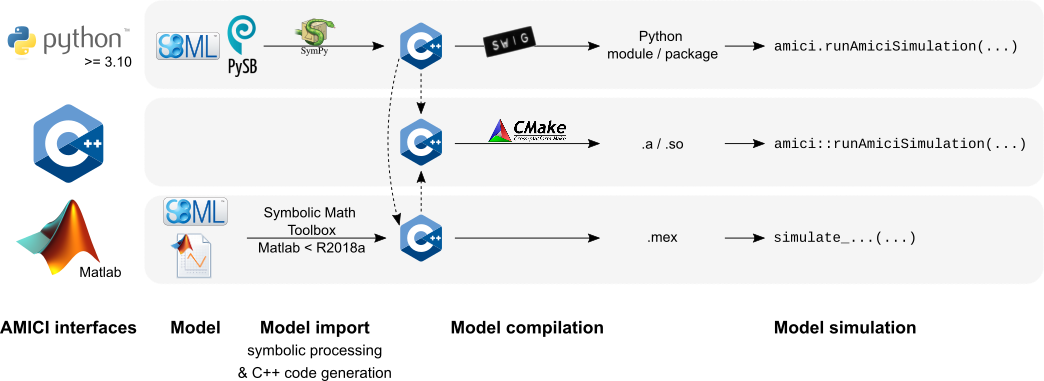
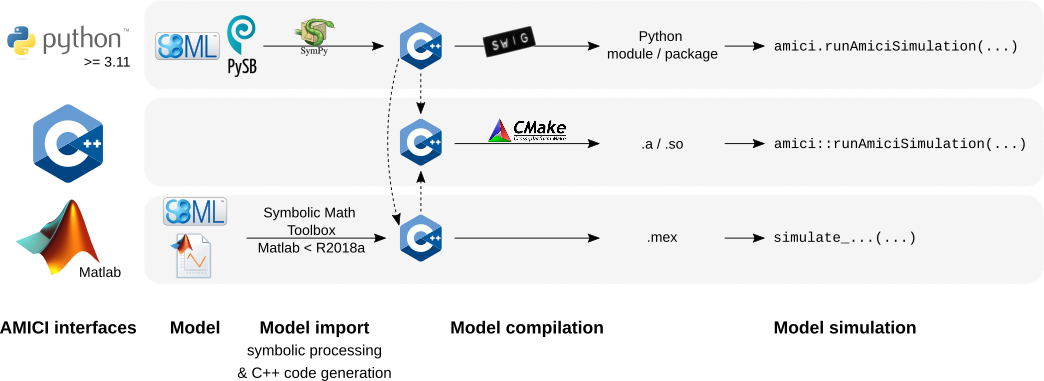
Require Python 3.11
https://numpy.org/neps/nep-0029-deprecation_policy.html#drop-schedule

diff --git a/python/sdist/amici/setup.template.py b/python/sdist/amici/setup.template.py
@@ -75,7 +75,7 @@ setup(
     ext_modules=[MODEL_EXT],
     packages=find_namespace_packages(),
     install_requires=["amici==TPL_AMICI_VERSION"],
-    python_requires=">=3.10",
+    python_requires=">=3.11",
     package_data={},
     zip_safe=False,
     classifiers=CLASSIFIERS,

diff --git a/doc/MATLAB_.md b/doc/MATLAB_.md
@@ -191,7 +191,7 @@ from within Matlab. This not quite comfortable yet, but it is possible.
 Here for proof of concept:
 
 * Install the python package as described in the documentation
-* Ensure `pyversion` shows the correct python version (>= 3.10)
+* Ensure `pyversion` shows the correct python version (>= 3.11)
 * Then, from within the AMICI `matlab/` directory:
 
     ```

diff --git a/doc/python_installation.rst b/doc/python_installation.rst
@@ -8,7 +8,7 @@ Short guide
 
 Installation of the AMICI Python package has the following prerequisites:
 
-* Python>=3.10
+* Python>=3.11
 * :term:`SWIG`>=4.1
 * CBLAS compatible BLAS library
   (e.g., OpenBLAS, CBLAS, Atlas, Accelerate, Intel MKL)
